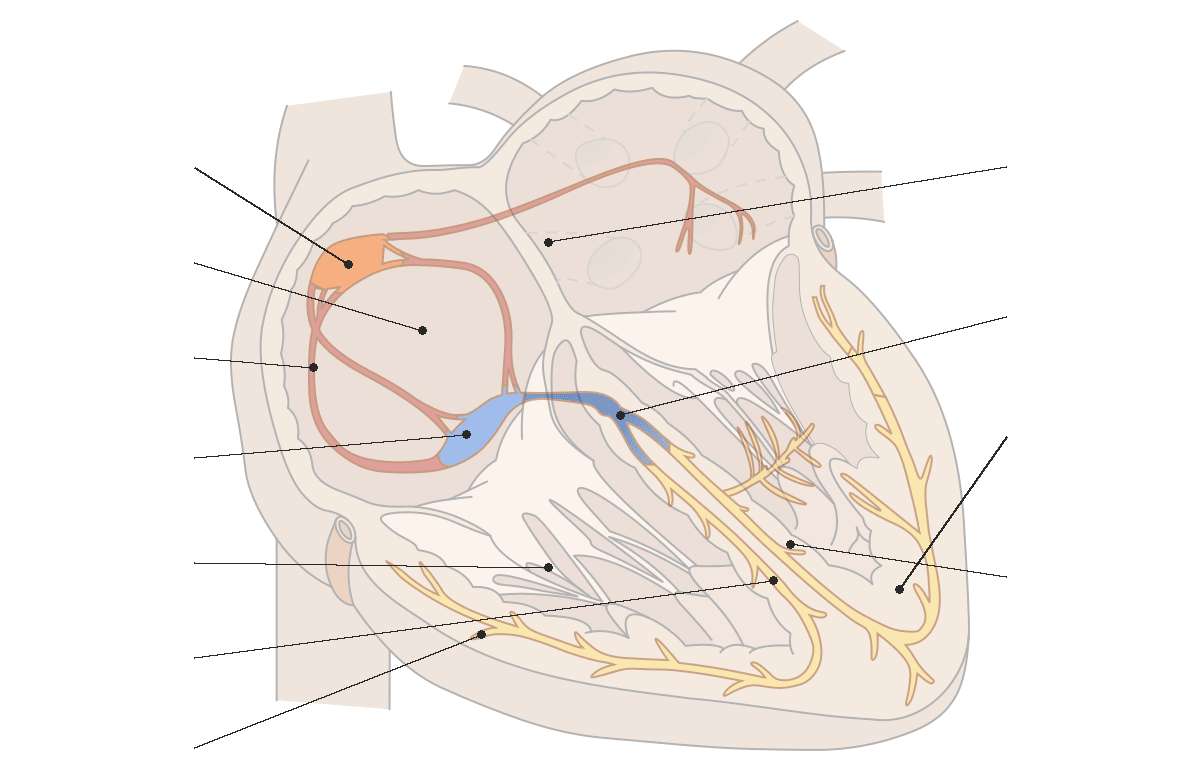
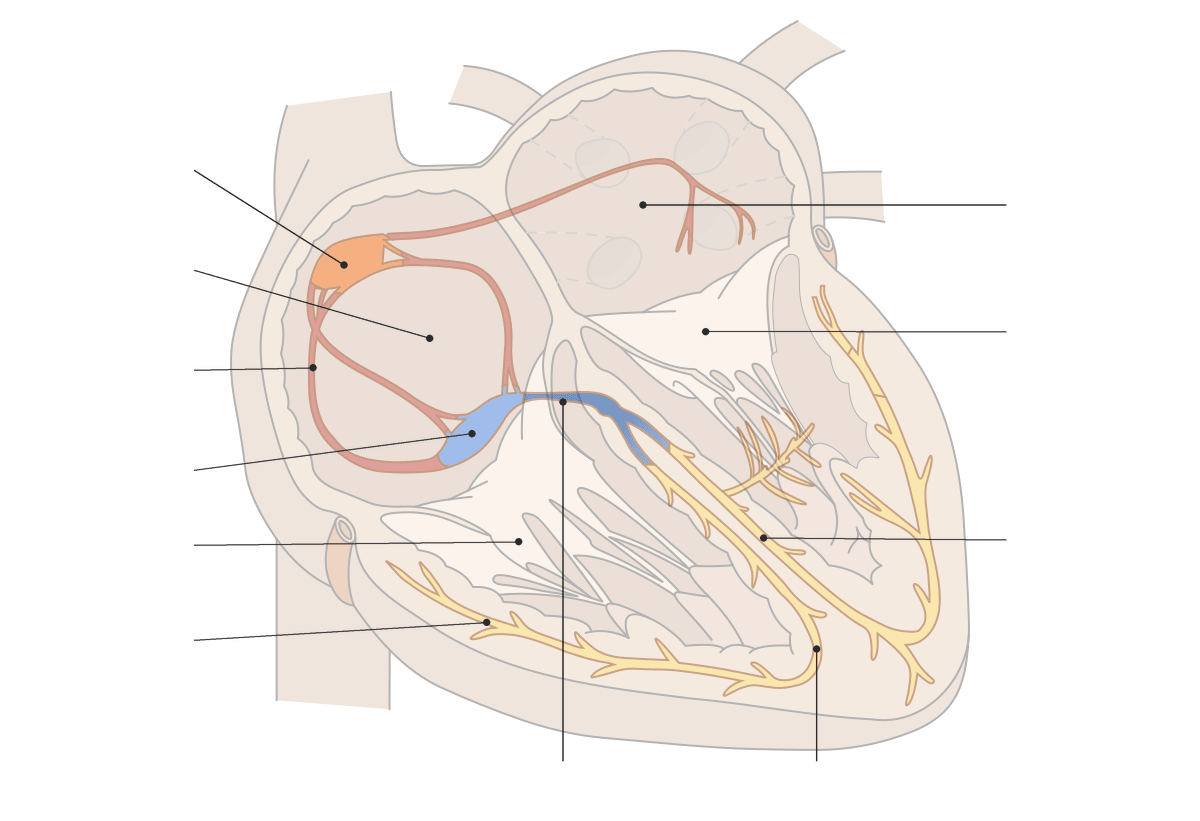
Label assets sync: recopy corrected q3/q5 images; MT12097/MT12099 label boxes, anchors (and MT12097 slot answers) from label-questions.json; refresh CREDITS.md

diff --git a/banks/medterm/img/CREDITS.md b/banks/medterm/img/CREDITS.md
@@ -4,9 +4,9 @@
 |---|---|---|---|---|---|
 | mt12-label-1.png (MT12095) | Blood flow cycle through heart, lungs, and body | User's own course material (lecture slide) | Course instructor / user | User-supplied course material (not openly licensed; internal course use) | Cropped out the small heart diagram at bottom right; covered all 14 labels with background-colored boxes; removed a stray mark. |
 | mt12-label-2.png (MT12096) | Structures of the heart | User's own course material (textbook page "Structures of the Heart") | Course textbook (publisher not identified in the image) | User-supplied course material (not openly licensed; internal course use) | Cropped off the left text panel; blanked the page title and all 21 labels; cleaned faint page-edge marks. |
-| mt12-label-3.png (MT12097) | Electrical conduction system of the heart | https://commons.wikimedia.org/wiki/File:Heart_and_electrical_conduction_system.svg | Original by Drj (CardioNetworks/ECGpedia); blank version by YitzhakNat (Commons uploader) | CC BY-SA 3.0 (https://creativecommons.org/licenses/by-sa/3.0/) | The source is unlabeled. Rendered from SVG, placed on a wider white canvas, and added leader lines with blank label areas. **This derivative is shared under CC BY-SA 3.0.** |
+| mt12-label-3.png (MT12097) | Electrical conduction system of the heart | https://commons.wikimedia.org/wiki/File:Heart_and_electrical_conduction_system.svg | Original by Drj (CardioNetworks/ECGpedia); blank version by YitzhakNat (Commons uploader) | CC BY-SA 3.0 (https://creativecommons.org/licenses/by-sa/3.0/) | The source is unlabeled. Rendered from SVG, placed on a wider white canvas (with a bottom margin), and added leader lines with blank label areas. The leader ends were placed using colour masks and checked in zoomed crops. **This derivative is shared under CC BY-SA 3.0.** |
 | mt12-label-4.png (MT12098) | Coronary arteries (anterior view) | https://commons.wikimedia.org/wiki/File:Coronary_arteries.svg | Patrick J. Lynch, medical illustrator (Coronary.pdf); derivative work by Fred the Oyster; adapted and labeled by Mikael Häggström, M.D. | CC BY-SA 3.0 (https://creativecommons.org/licenses/by-sa/3.0/) | Removed all label text from the SVG; removed the "Left pulmonary veins" label and its leader lines; rendered to PNG. **This derivative is shared under CC BY-SA 3.0.** |
-| mt12-label-5.png (MT12099) | Artery, arterioles, capillaries, venules, vein, and the layers of the vessel wall | https://commons.wikimedia.org/wiki/File:Blood_vessels-en.svg | Kelvinsong | CC BY-SA 3.0 (https://creativecommons.org/licenses/by-sa/3.0/) | Removed label text from the SVG; removed the duplicate vein-side wall labels plus the basal lamina, pericyte, capillary endothelium, and thoroughfare-channel labels with their leader lines; removed the "cross-sectional area" inset and its planes; cropped empty space at the bottom; rendered to PNG. **This derivative is shared under CC BY-SA 3.0.** |
+| mt12-label-5.png (MT12099) | Artery, arterioles, capillaries, venules, vein, and the layers of the vessel wall | https://commons.wikimedia.org/wiki/File:Blood_vessels-en.svg | Kelvinsong | CC BY-SA 3.0 (https://creativecommons.org/licenses/by-sa/3.0/) | Removed label text from the SVG; removed the duplicate vein-side wall labels plus the basal lamina, pericyte, capillary endothelium, and thoroughfare-channel labels with their leader lines; re-used the source's basement-membrane leader line for the internal elastic lamina, because the original IEL line pointed to the thin ring just under the endothelium; removed the "cross-sectional area" inset and its planes; cropped empty space at the bottom; rendered to PNG. **This derivative is shared under CC BY-SA 3.0.** |
 
 Suggested on-screen attribution lines:
 - q3: "Heart and electrical conduction system" by Drj (CardioNetworks), blank version by YitzhakNat; CC BY-SA 3.0; via Wikimedia Commons. Leader lines and blank label areas added.
